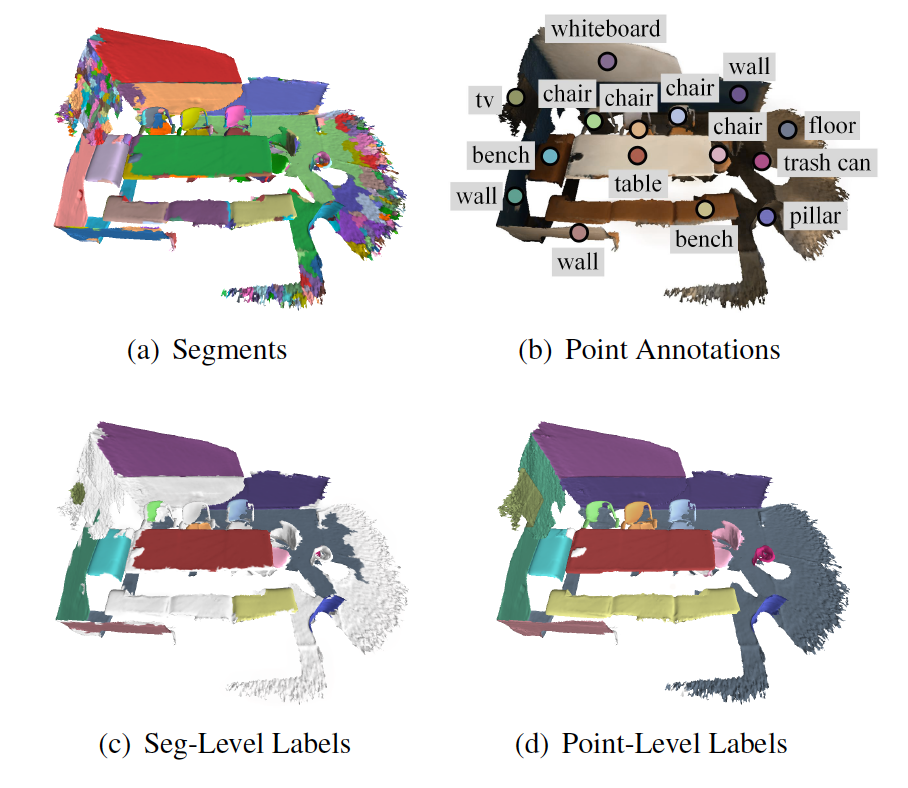
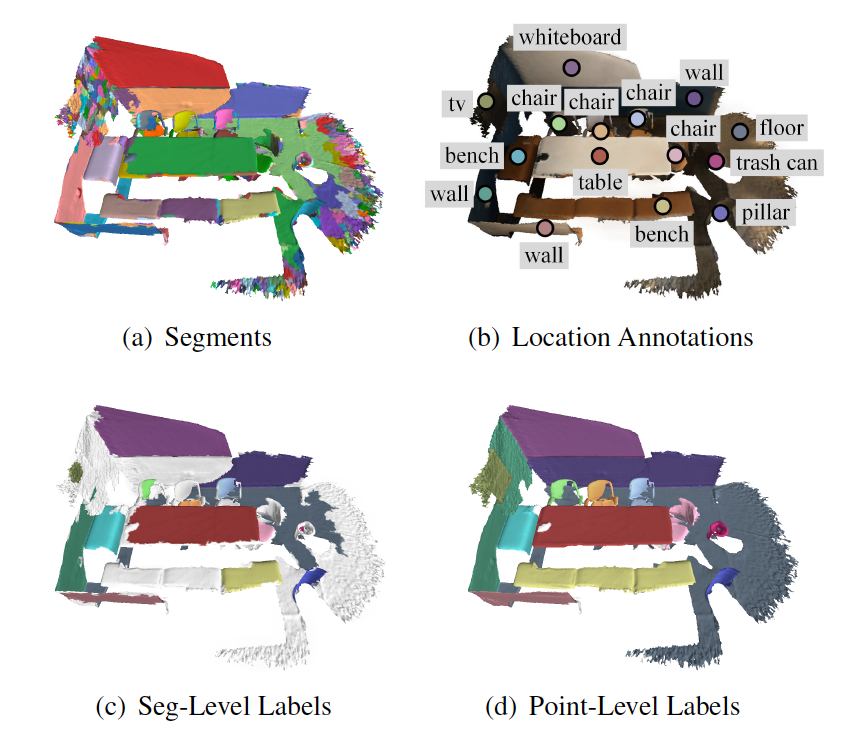
update paper detail

diff --git a/index.html b/index.html
@@ -343,7 +343,7 @@ underline {
 			  <td style="height:10px">
 			  </td>
 			</table>
-	    	We propose a new form of weak supervision signal, namely seg-level labels, for point cloud instance and semantic segmentation. We further design a segment grouping network (SegGroup) to generate pseudo point-level labels.</font>
+	    	In this paper, we discover that the locations of instances matter for 3D scene segmentation. By fully taking the advantages of locations, we design a weakly supervised point cloud segmentation algorithm that only requires clicking on one point per instance to indicate its location for annotation. With over-segmentation for pre-processing, we extend these location annotations into segments as seg-level labels.</font>
 	    </div>
 	</tr></tbody>
 	</table>
@@ -510,6 +510,6 @@ underline {
 </div>
 </div>
 <br>
-<center><font size=3 style="color: #3B3B3B">—&nbsp;&nbsp; Last updated: Jan, 2021 &nbsp;&nbsp;—</font></center><br>
+<center><font size=3 style="color: #3B3B3B">—&nbsp;&nbsp; Last updated: Apr, 2021 &nbsp;&nbsp;—</font></center><br>
 <center><font size=2 style="color: #BBBBBB">Copyright &copy 2021 An Tao. All Rights Reserved.</font></center><br>
 </body></html>

diff --git a/index_cn.html b/index_cn.html
@@ -376,7 +376,7 @@ underline {
 			  <td style="height:10px">
 			  </td>
 			</table>
-	    	我们提出了一种新的弱监督形式用于三维点云场景实例分割和语义分割，即过分割块级标签。</font>
+			本文探索了实例位置信息对于3D场景分割而言的重要性。为了充分利用实例位置信息的优势，本文设计了一个弱监督点云分割算法，仅需要对每个实例中一个点进行标注以指示其位置。在过分割预处理下，本文将实例位置标注扩展成过分割块级标签。</font>
 	    </div>
 	</tr></tbody>
 	</table>
@@ -539,6 +539,6 @@ underline {
 </div>
 </div>
 <br>
-<center><font size=3 style="color: #3B3B3B">—&nbsp;&nbsp; 最近更新：2021年1月 &nbsp;&nbsp;—</font></center><br>
+<center><font size=3 style="color: #3B3B3B">—&nbsp;&nbsp; 最近更新：2021年4月 &nbsp;&nbsp;—</font></center><br>
 <center><font size=2 style="color: #BBBBBB">版权所有 &copy 2021 陶安</font></center><br>
 </body></html>

diff --git a/mobile.html b/mobile.html
@@ -474,6 +474,6 @@ underline {
   
 </div></div>
 </div>
-<center><font size=6 style="color: #3B3B3B">—&nbsp;&nbsp; Last updated: Jan, 2021 &nbsp;&nbsp;—</font></center><br>
+<center><font size=6 style="color: #3B3B3B">—&nbsp;&nbsp; Last updated: Apr, 2021 &nbsp;&nbsp;—</font></center><br>
 <center><font size=6 style="color: #BBBBBB">Copyright &copy 2021 An Tao. All Rights Reserved.</font></center><br>
 </body></html>

diff --git a/mobile_cn.html b/mobile_cn.html
@@ -471,6 +471,6 @@ underline {
   
 </div></div>
 </div>
-<center><font size=6 style="color: #3B3B3B">—&nbsp;&nbsp; 最近更新：2021年1月 &nbsp;&nbsp;—</font></center><br>
+<center><font size=6 style="color: #3B3B3B">—&nbsp;&nbsp; 最近更新：2021年4月 &nbsp;&nbsp;—</font></center><br>
 <center><font size=6 style="color: #BBBBBB">版权所有 &copy 2021 陶安</font></center><br>
 </body></html>
